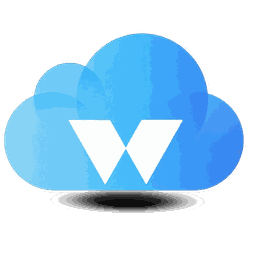
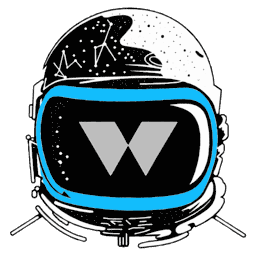
feat(brand): the WorldSpace mark is the helmet
The owner's new logo (2026-09-11): an astronaut helmet with the W on the
visor, replacing the cloud everywhere the app shows its own mark.

Shipped under the SAME filenames, so no consumer changed: the sidebar and
mobile lockups (BrandRitual), the welcome tour, the offline page and the
profile watermark all read worldspace-mark*.png; the tab favicon is
src/app/icon.png; the PWA and Apple icons are public/icons/* and
src/app/apple-icon.png. The source is an auto-traced 690KB SVG on a
1536x1024 canvas, so it was cropped to the art's box, squared, and rastered:
256px marks, transparent, and tiles on the page colour #0C0A09 (the blue
gradient tile swallowed the visor rim, a white one the dome). The maskable
icon keeps the helmet inside the 80% safe circle.

One art reads on both grounds (white dome on dark, black ink on light), so
the dark and light files are identical today; BrandRitual keeps its two
CSS-swapped slots for a future mark that needs a cut per ground. Because
both slots download, the marks are 256-colour palette PNGs with real alpha:
11KB each against 56KB full-colour, lighter than the cloud they replace. The
icon tiles fell from 608KB to 68KB the same way.

Two slots still showed the retired gold W and are fixed: the 404 page
("WorldStreet · Socials") now renders the real lockup, and the empty
profile banner's watermark is the current mark. The service worker cache
moves to ws-v2 so installed apps drop the precached cloud from the offline
page.

diff --git a/src/components/layout/BrandRitual.tsx b/src/components/layout/BrandRitual.tsx
@@ -35,17 +35,18 @@ export function BrandMark({
 }
 
 /**
- * The WorldSpace lockup: the cloud mark plus the wordmark walking in beside it
- * (`.ws-brand-word`, still on the 5.2s track from globals.css).
+ * The WorldSpace lockup: the helmet mark plus the wordmark walking in beside
+ * it (`.ws-brand-word`, still on the 5.2s track from globals.css).
  *
- * The mark is the CLOUD, not the ecosystem W. They are two different brands:
- * this app is WorldSpace and the cloud is its logo, while the W belongs to
- * WorldStreet, the parent — which is why the mobile bar's WorldStreet tab
- * still renders `BrandMark` and this does not. Mixing them made the app look
- * like it was called WorldStreet.
+ * The mark is the HELMET (2026-09-11; it replaced the cloud), not the bare
+ * ecosystem W. They are two different brands: this app is WorldSpace and the
+ * helmet is its logo (the W sits on its visor as a nod to the parent), while
+ * the bare W belongs to WorldStreet — which is why the mobile bar's
+ * WorldStreet tab still renders `BrandMark` and this does not. Mixing them
+ * made the app look like it was called WorldStreet.
  *
- * The cloud does not draw itself the way the W does: it is raster artwork, and
- * there is nothing to stroke. The wordmark keeps its entrance.
+ * The helmet does not draw itself the way the W does: it is raster artwork,
+ * and there is nothing to stroke. The wordmark keeps its entrance.
  */
 export function BrandRitual({
 	size = 22,
@@ -70,15 +71,18 @@ export function BrandRitual({
 		<span
 			className={clsx("inline-flex items-center gap-2 min-w-0", className)}
 		>
-			{/* TWO cuts, swapped by CSS rather than by JS. The difference is the
-			    glow under the cloud: the dark cut carries a WHITE glow and the
-			    light cut a BLACK shadow, so each is invisible on the other's
-			    ground. Reading the theme in JS would need the theme before first
-			    paint, which is a hydration mismatch waiting to happen; a CSS
-			    swap just works, including during SSR.
+			{/* TWO slots, swapped by CSS rather than by JS. The helmet reads on
+			    both grounds (white dome on dark, black ink on light), so both
+			    files carry the same art today; the slots stay because the cloud
+			    needed a cut per ground and a future mark may too. Reading the
+			    theme in JS would need the theme before first paint, which is a
+			    hydration mismatch waiting to happen; a CSS swap just works,
+			    including during SSR.
 
-			    `unoptimized`: ~13KB drawn at ~34px, so the responsive pipeline
-			    has nothing to optimise — and it previously BROKE the mark, which
+			    `unoptimized`: ~11KB (a 256-colour palette PNG; the full-colour
+			    encode was 56KB, and the hidden slot downloads too, so keep it
+			    small) drawn at ~34px, so the responsive pipeline has nothing to
+			    optimise — and it previously BROKE the mark, which
 			    sat in the DOM with a valid srcset and `currentSrc === ""`, so the
 			    logo never appeared at all. */}
 			<Image

diff --git a/src/app/not-found.tsx b/src/app/not-found.tsx
@@ -1,25 +1,14 @@
 import Link from "next/link";
-import Image from "next/image";
+import { BrandRitual } from "@/components/layout/BrandRitual";
 
 /* Branded 404 — the app-router default is unstyled. Same visual language as
    EmptyState (raised icon circle, title/caption, one primary action). */
 export default function NotFound() {
   return (
     <div className="min-h-dvh bg-page flex flex-col items-center justify-center p-6 text-center animate-rise">
-      <div className="flex items-center gap-2 mb-8">
-        <Image
-          src="/images/logo.png"
-          alt="WorldStreet"
-          width={28}
-          height={28}
-        />
-        <span className="font-display font-bold text-[calc(17px*var(--ws-fs))] text-primary">
-          WorldStreet
-        </span>
-        <span className="text-[calc(10px*var(--ws-fs))] font-semibold uppercase tracking-[2px] text-gold">
-          Socials
-        </span>
-      </div>
+      {/* The product lockup, not the retired gold W under a "Socials"
+          eyebrow: a lost visitor should still see which app they are in. */}
+      <BrandRitual size={28} wordSize={17} className="mb-8" />
 
       <p className="font-display text-[calc(64px*var(--ws-fs))] font-semibold leading-none text-raised select-none tabular-nums">
         404

diff --git a/src/components/ui/WelcomeTour.tsx b/src/components/ui/WelcomeTour.tsx
@@ -48,7 +48,8 @@ const ALL_STEPS = [
     title: "Welcome to WorldSpace",
     body:
       "This is the social side of the WorldStreet ecosystem. Share ideas, follow traders and creators, and talk markets with the people trading them.",
-    // The cloud, in both cuts. This was /images/logo.png — the retired gold W —
+    // The WorldSpace mark, in both slots (see BrandRitual). This was
+    // /images/logo.png — the retired gold W —
     // under a "Socials" eyebrow, so the first thing a new account ever saw was
     // the OLD brand and the OLD product name.
     hero: (

diff --git a/public/sw.js b/public/sw.js
@@ -20,7 +20,10 @@
  * every "ws-" cache and calls registration.unregister(). The browser re-checks
  * this file on every navigation, so the kill lands within one page load.
  */
-const VERSION = "ws-v1";
+// Bump on any change to PRECACHE contents: the offline mark changed
+// from the cloud to the helmet (2026-09-11), and a same-URL precache
+// entry is never refetched until the cache name moves.
+const VERSION = "ws-v2";
 const STATIC_CACHE = `${VERSION}-static`;
 const MEDIA_CACHE = `${VERSION}-media`;
 const OFFLINE_URL = "/offline.html";

diff --git a/src/components/profile/ProfileHeader.tsx b/src/components/profile/ProfileHeader.tsx
@@ -175,7 +175,7 @@ export function ProfileHeader({
             <Image src={banner} alt="" fill sizes="620px" className="object-cover" />
           ) : (
             <img
-              src="/images/logo.png"
+              src="/images/worldspace-mark.png"
               alt=""
               aria-hidden="true"
               className="pointer-events-none absolute left-1/2 top-1/2 w-12 -translate-x-1/2 -translate-y-1/2 select-none opacity-[0.08]"
